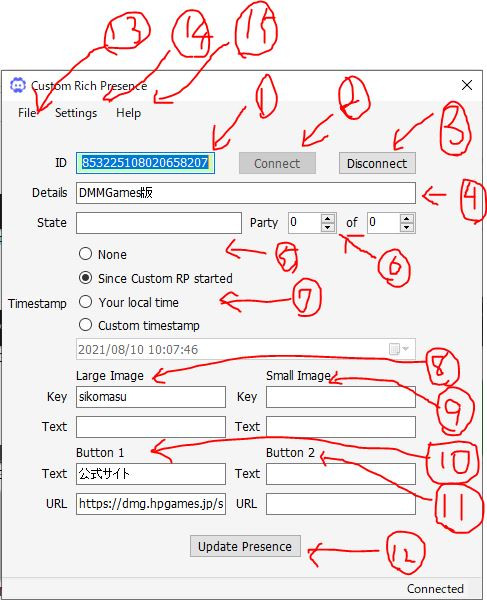
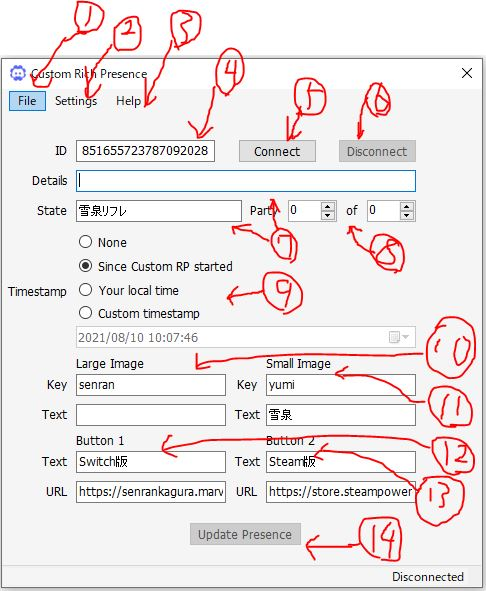
main

Changed region(s): [[0.0, 0.0, 1.0, 1.0], [0.0, 0.335, 0.0309, 0.3655]]

diff --git a/page/curp.html b/page/curp.html
@@ -84,7 +84,7 @@
                             次はこのアプリの使い方を説明します。<br>
                             <h1><a id="con4">偽装方法</a></h1>
                             <img src="../pic/satu.JPG"><br>
-                            <img src="../pic/sinodis.JPG"><br>
+                            <img src="../pic/rifure.JPG"><br>
                             1:アプリケーションID、Discord Developerで生成するID。後述します。<br>
                             2:<br>
                             3:<br>
